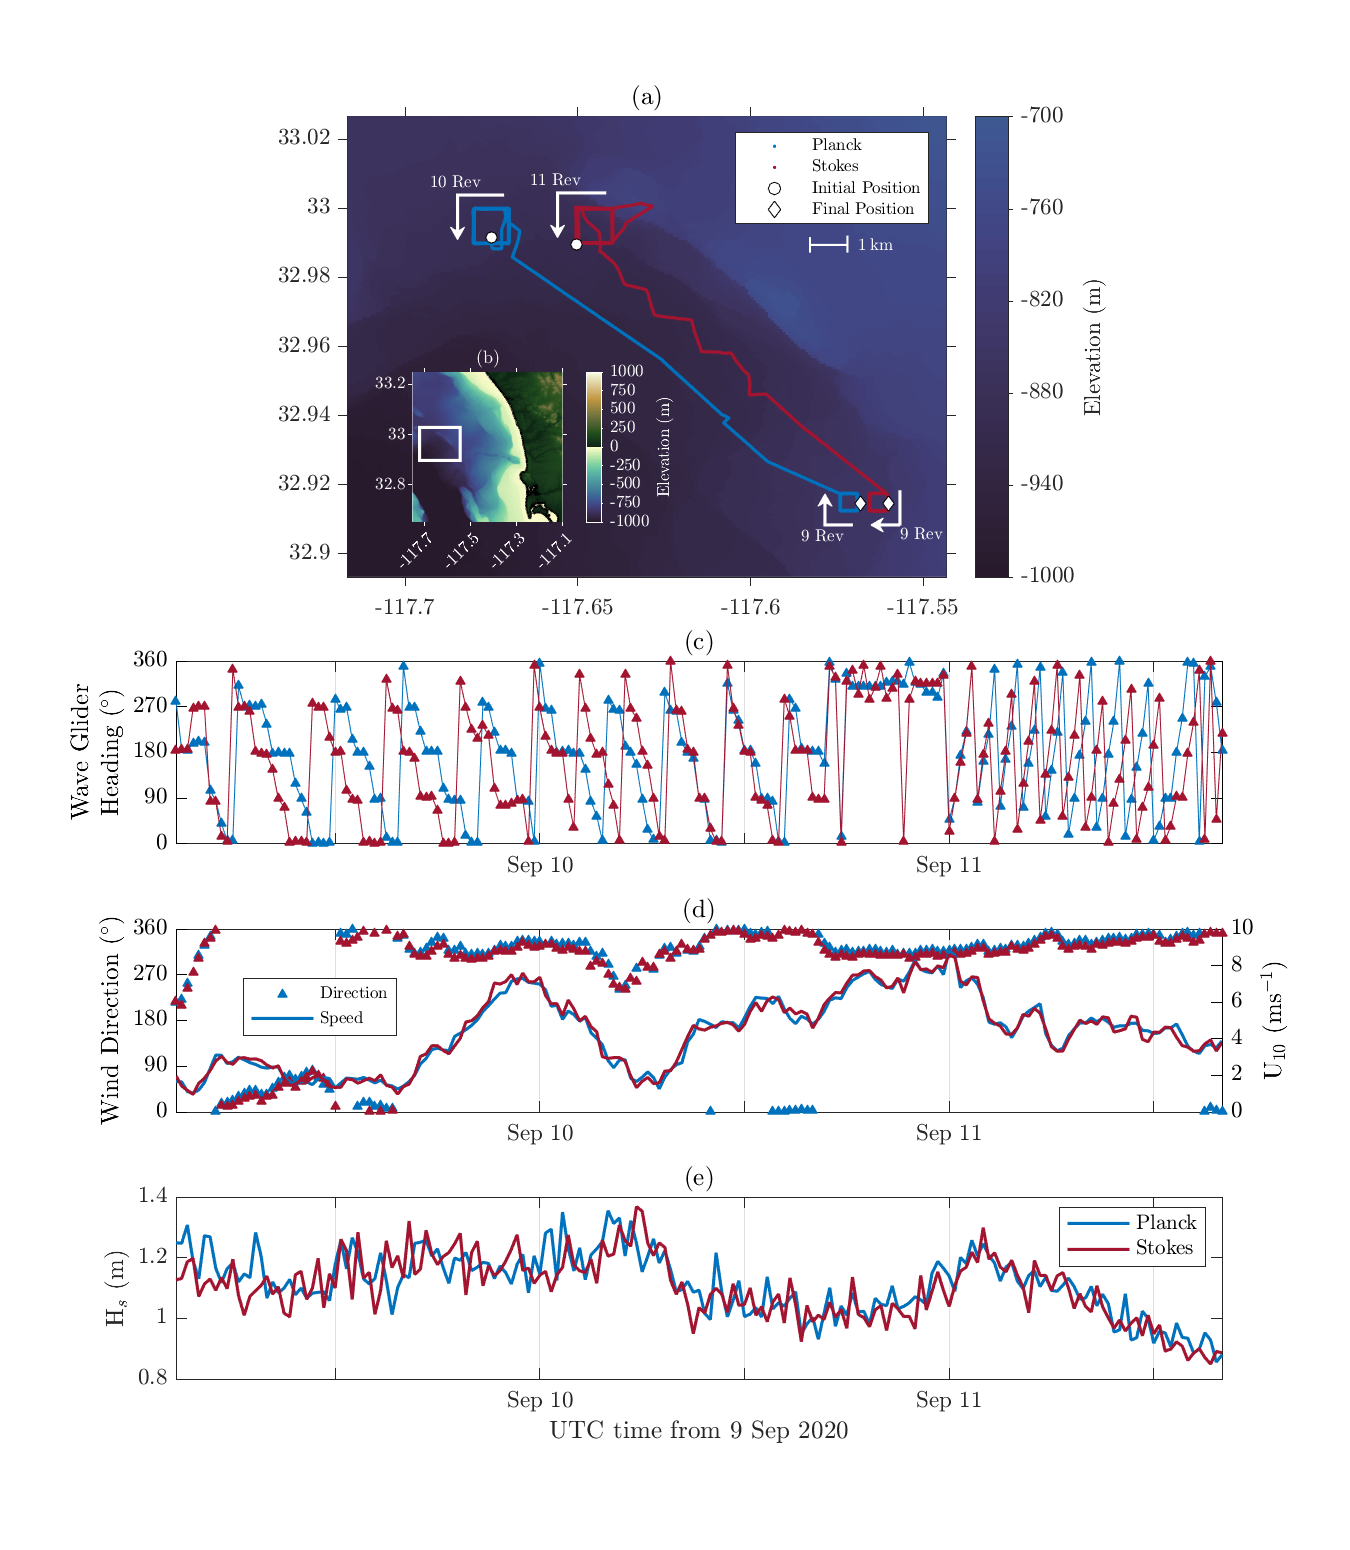
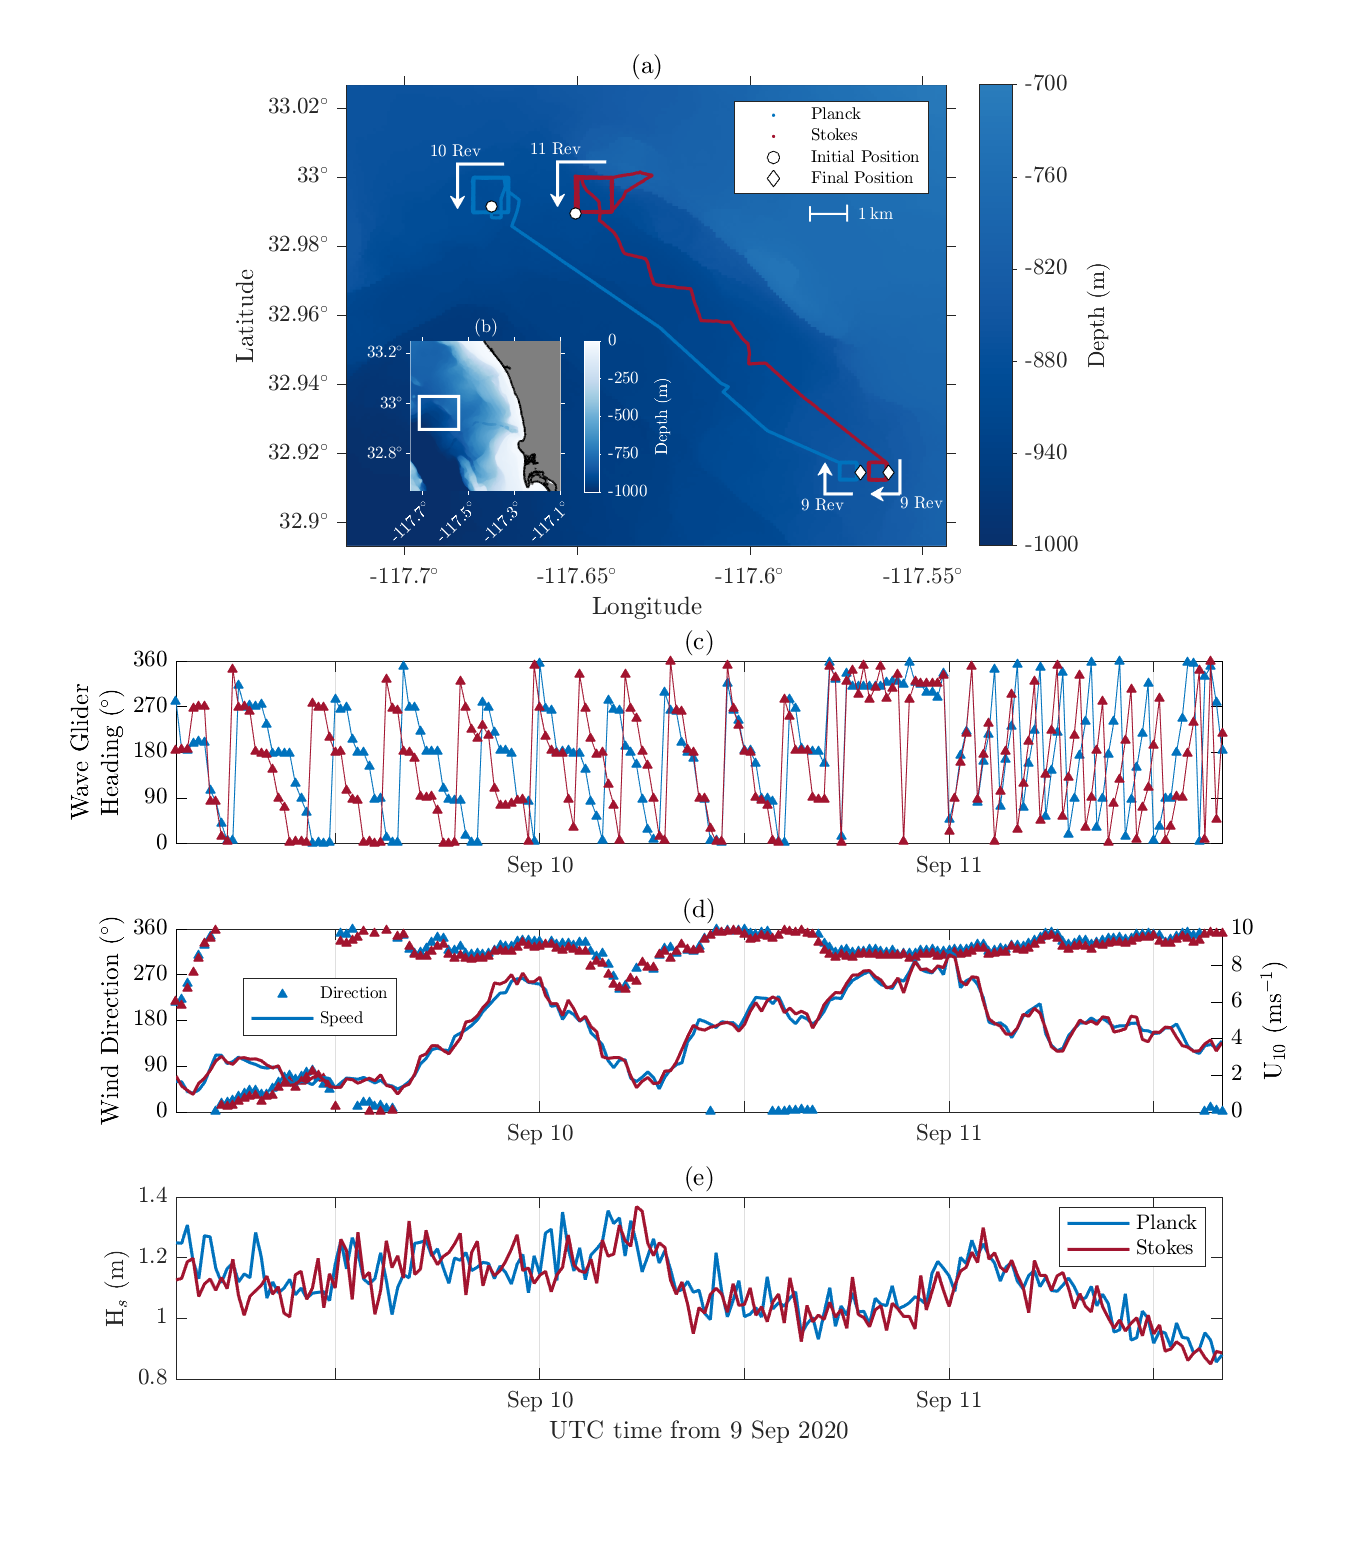
Add lat/lon labels, shift axes, and mask land.

Changed region(s): [[0.1867, 0.031, 0.84, 0.4026], [0.1556, 0.1858, 0.1867, 0.2168]]

diff --git a/src/fig01.m b/src/fig01.m
@@ -285,10 +285,10 @@ for is = 1:length(T0)
 end 
 
 %% Plot platform trajectory and environmental conditions
-close all 
+clc, close all 
 
 % Set plotting parameters
-cb_l = -1000; cb_h = 1000;
+cb_l = -1000; cb_h = -1; cb_land = 0;
 t_ticks = datetime('09-Sep-2020 00:00:00'):hours(12):datetime('12-Sep-2020 00:00:00');
 red = [0.6350 0.0780 0.1840]; 
 blue = [0 0.4470 0.7410]; 
@@ -322,8 +322,13 @@ hold off
 % Set figure attributes
 title('(a)')
 axis equal
+xlabel('Longitude')
+ylabel('Latitude')
 xlim([lon_exp_l, lon_exp_h])
 ylim([lat_exp_l, lat_exp_h])
+xl = xticks; yl = yticks;
+xticklabels({[num2str(xl(1)) '$^\circ$']; [num2str(xl(2)) '$^\circ$']; [num2str(xl(3)) '$^\circ$']; [num2str(xl(4)) '$^\circ$']})
+yticklabels({[num2str(yl(1)) '$^\circ$']; [num2str(yl(2)) '$^\circ$']; [num2str(yl(3)) '$^\circ$']; [num2str(yl(4)) '$^\circ$']; [num2str(yl(5)) '$^\circ$']; [num2str(yl(6)) '$^\circ$']; [num2str(yl(7)) '$^\circ$']})
 legend([pc2, pc3, pc4, pc5], 'Planck', 'Stokes', 'Initial Position', 'Final Position', 'Location', 'northeast', 'Fontsize', fontsize-3)
 grid on
 set(gca,'FontSize',fontsize)
@@ -333,11 +338,11 @@ set(gcf, 'Color', 'w')
 shading flat
 
 %------- set the colormap of the zoomed in region -------%
-% Set the topographic colormap
-cmap = colormap(cmocean('topo'));
+% Set the bathymetric colormap
+cmap = colormap([flipud(cmocean('deep')); [0.5, 0.5, 0.5]]);                % flipud(cmocean('deep'))
 
 % Create a depth vector corresponding to the levels of the colormap
-cmap_z = linspace(cb_l,cb_h, length(cmap)); 
+cmap_z = [linspace(cb_l,cb_h, length(cmap)-1), cb_land]; 
 
 % Find the max and min values of the bathymetry in the experiment site
 z_max = max(z_exp,[],'All'); z_min = min(z_exp,[],'All'); 
@@ -357,15 +362,22 @@ cb = colorbar;
 caxis([cb_l, -700]);
 cb.Label.Interpreter = 'Latex';
 cb.FontSize = fontsize;
-cb.Label.String = 'Elevation (m)';
+cb.Label.String = 'Depth (m)';
 cb.TickDirection = 'out';
 cb.Ticks = linspace(cb_l,-700,6);
 cb.TickLabels = num2cell(linspace(cb_l,-700,6)); 
 cb.TickLabelInterpreter = 'latex';
 
-% Find the position of the current axes and create a new position vector 
-% for the new axis using that position data.
+% Find the position of the current axes
 p_ax1 = get(gca, 'Position');                                               % Note: position vector: [left bottom width height]
+
+% Shift axis up and get new position
+y_shift = 0.02;
+set(gca, 'Position', [p_ax1(1) p_ax1(2)+y_shift p_ax1(3) p_ax1(4)])         % x-offset to align axes labels and titles
+p_ax1 = get(gca, 'Position');
+
+% Create a new position vector for the inset axis using that position data 
+% from the larger axis.
 p_ax2 = [p_ax1(1)+0.165 p_ax1(2)+0.035 p_ax1(3)-.5 p_ax1(4)-.2];           
 
 % Apply empirical corrections to x and y end points for annotate function in
@@ -403,8 +415,12 @@ contour(lon,lat,z',[0,0], 'LineWidth', 1, 'LineColor', 'k', 'LineStyle', '-')
 
 % Set figure attributes
 title('(b)', 'color', 'w')
+shading flat
 axis square
 xticks(-117.7:0.2:-117.1)
+xl = xticks; yl = yticks;
+xticklabels({[num2str(xl(1)) '$^\circ$']; [num2str(xl(2)) '$^\circ$']; [num2str(xl(3)) '$^\circ$']; [num2str(xl(4)) '$^\circ$']})
+yticklabels({[num2str(yl(1)) '$^\circ$']; [num2str(yl(2)) '$^\circ$']; [num2str(yl(3)) '$^\circ$']})
 set(gca, 'FontSize', 8)
 set(gca,'TickDir','out','TickLength', [0.025,0.75]);
 set(gca,'XColor','w')
@@ -412,58 +428,57 @@ set(gca,'YColor','w')
 set(gcf, 'InvertHardcopy', 'off')
 set(gca, 'color', 'w')
 set(gca,'TickLabelInterpreter','latex')
-shading flat
-cmap = colormap(h, cmocean('topo'));
+cmap = colormap(h, cmap);
 
 %Display Colorbar
 cb = colorbar; 
-caxis([cb_l, cb_h]);
+caxis([cb_l, cb_land]);
 cb.Label.Interpreter = 'Latex';
 cb.FontSize = 8;
-cb.Label.String = 'Elevation (m)';
+cb.Label.String = 'Depth (m)';
 cb.TickDirection = 'out';
 cb.Color = 'w';
-cb.Ticks = linspace(cb_l,cb_h,9);
-cb.TickLabels = num2cell(linspace(cb_l,cb_h,9)); 
+cb.Ticks = linspace(cb_l,cb_land,5);
+cb.TickLabels = num2cell(linspace(cb_l,cb_land,5)); 
 cb.TickLabelInterpreter = 'latex';
 
 % Create winding number arrows annotations
 %----- Planck Large Box -----%
 xa = [0.373456790123456 0.337962962962963];
-ya = [0.874163319946452 0.874163319946452];
+ya = [0.874163319946452 0.874163319946452]+y_shift;
 annotation('line',xa,ya,'Color','w', 'LineWidth', 1.5)
 xa = [0.33891975308642 0.33891975308642];
-ya = [0.875163319946452 0.845373493975903];
+ya = [0.875163319946452 0.845373493975903]+y_shift;
 annotation('textarrow',xa,ya,'String','10 Rev ','Color','w', 'LineWidth', ...
            1.5, 'Interpreter', 'latex', 'FontSize', 8,'HeadWidth',9,...
            'HeadLength',6)
 
 %----- Planck Small Box -----%
 xa = [0.632716049382716 0.612654320987653];
-ya = [0.661311914323962 0.661311914323961];
+ya = [0.661311914323962 0.661311914323961]+y_shift;
 annotation('line',xa-0.001,ya,'Color','w', 'LineWidth', 1.5)
 xa = [0.611111111111109 0.611111111111109];
-ya = [0.660311914323962 0.681392235609102];
+ya = [0.660311914323962 0.681392235609102]+y_shift;
 annotation('textarrow',xa,ya,'String','9 Rev ','Color','w', 'LineWidth', ...
            1.5, 'Interpreter', 'latex', 'FontSize', 8,'HeadWidth',9,...
            'HeadLength',6)
 
 %----- Stokes Large Box -----%
 xa = [0.449074074074072 0.413580246913579];
-ya = [0.875502008032128 0.875502008032128];
+ya = [0.875502008032128 0.875502008032128]+y_shift;
 annotation('line',xa,ya,'Color','w', 'LineWidth', 1.5)
 xa = [0.412993827160493 0.412993827160493];
-ya = [0.876502008032128 0.846712182061579];
+ya = [0.876502008032128 0.846712182061579]+y_shift;
 annotation('textarrow',xa,ya,'String','11 Rev ','Color','w', 'LineWidth', ...
             1.5, 'Interpreter', 'latex', 'FontSize', 8,'HeadWidth',9,...
             'HeadLength',6)
 
 %----- Stokes Small Box -----%
 xa = [0.666666666666666 0.666666666666667];
-ya = [0.659973226238286 0.682730923694779];
+ya = [0.659973226238286 0.682730923694779]+y_shift;
 annotation('line',xa,ya+0.001,'Color','w', 'LineWidth', 1.5)
 xa = [0.666666666666666 0.645061728395059];
-ya = [0.661311914323962 0.661311914323961];
+ya = [0.661311914323962 0.661311914323961]+y_shift;
 annotation('textarrow',xa,ya,'String','9 Rev ', 'TextRotation', 0, 'Color', ...
            'w', 'LineWidth', 1.5, 'Interpreter', 'latex', 'FontSize', 8,...
            'HorizontalAlignment','left', 'VerticalAlignment','top',...
@@ -504,19 +519,19 @@ py_f = y_ax1(1)+0.281;
 
 %----- Left Vertical Bar -----%
 annotation('line',[0.6 0.6],...
-    [0.828+0.009 0.838+0.009],'Color',[1 1 1],'LineWidth',1);
+    [0.828+0.009 0.838+0.009]+y_shift,'Color',[1 1 1],'LineWidth',1);
 
 %----- Right Vertical Bar -----%
 annotation('line',[0.6+(px_f-px_i) 0.6+(px_f-px_i)],...
-    [0.828+0.009 0.839+0.009],'Color',[1 1 1],'LineWidth',1);
+    [0.828+0.009 0.839+0.009]+y_shift,'Color',[1 1 1],'LineWidth',1);
 
 %----- Horizontal Bar -----%
 annotation('line',[0.6  0.6+(px_f-px_i)],...
-    [0.833+0.009 0.833+0.009],'Color',[1 1 1],'LineWidth',1);
+    [0.833+0.009 0.833+0.009]+y_shift,'Color',[1 1 1],'LineWidth',1);
 
 %----- Text Box -----%
 annotation('textbox',...
-    [0.627543209876543 0.829301075268817+0.009 0.0591851851851851 0.013440860215054],...
+    [0.627543209876543 0.829301075268817+0.009+y_shift 0.0591851851851851 0.013440860215054],...
     'Color',[1 1 1],'String',{'1$\:$km'},'Interpreter','latex',...
     'FontSize',8,'FitBoxToText','off','EdgeColor','none');
 

diff --git a/src/fig02.m b/src/fig02.m
@@ -360,9 +360,10 @@ for is = 1:(length(T0) - 1)
 end
 
 %% Plot platform trajectory and environmental conditions
+clc, close all
 
 % Set plotting parameters
-cb_l = -4000; cb_h = 4000;
+cb_l = -4000; cb_h = -1; cb_land = 0;
 t_ticks = datetime('29-Oct-2021 00:00:00'):days(1):datetime('04-Nov-2021 00:00:00');
 red = [0.6350 0.0780 0.1840]; 
 blue = [0 0.4470 0.7410]; 
@@ -391,10 +392,15 @@ hold off
 % Set figure attributes
 title('(a)')
 axis equal
+xlabel('Longitude')
+ylabel('Latitude')
 xlim([lon_exp_l, lon_exp_h])
 ylim([lat_exp_l, lat_exp_h])
 xticks(-124.2:0.2:-123.4)
 yticks(36.8:0.2:37.4)
+xl = xticks; yl = yticks;
+xticklabels({[num2str(xl(1)) '$^\circ$']; [num2str(xl(2)) '$^\circ$']; [num2str(xl(3)) '$^\circ$']; [num2str(xl(4)) '$^\circ$']; [num2str(xl(5)) '$^\circ$']})
+yticklabels({[num2str(yl(1)) '$^\circ$']; [num2str(yl(2)) '$^\circ$']; [num2str(yl(3)) '$^\circ$']; [num2str(yl(4)) '$^\circ$']})
 legend([pc2, pc3, pc4], 'WHOI43', 'Initial Position', 'Final Position', 'Location', 'northeast', 'Fontsize', fontsize-3)
 grid on
 set(gca,'FontSize',fontsize)
@@ -404,11 +410,11 @@ set(gcf, 'Color', 'w')
 shading flat
 
 %------- set the colormap of the zoomed in region -------%
-% Set the topographic colormap
-cmap = colormap(cmocean('topo'));
+% Set the bathymetric colormap
+cmap = colormap([flipud(cmocean('deep')); [0.5, 0.5, 0.5]]);                % flipud(cmocean('deep'))
 
 % Create a depth vector corresponding to the levels of the colormap
-cmap_z = linspace(cb_l,cb_h, length(cmap)); 
+cmap_z = [linspace(cb_l,cb_h, length(cmap)-1), cb_land]; 
 
 % Find the max and min values of the bathymetry in the experiment site
 z_max = max(z_exp,[],'All'); z_min = min(z_exp,[],'All'); 
@@ -428,13 +434,20 @@ cb = colorbar;
 caxis([cb_l, -1000]);
 cb.Label.Interpreter = 'Latex';
 cb.FontSize = fontsize;
-cb.Label.String = 'Elevation (m)';
+cb.Label.String = 'Depth (m)';
 cb.TickDirection = 'out'; 
 cb.TickLabelInterpreter = 'latex';
 
-% Find the position of the current axes and create a new position vector 
-% for the new axis using that position data.
+% Find the position of the current axes
 p_ax1 = get(gca, 'Position');                                               % Note: position vector: [left bottom width height]
+
+% Shift axis up and get new position
+y_shift = 0.02;
+set(gca, 'Position', [p_ax1(1) p_ax1(2)+y_shift p_ax1(3) p_ax1(4)])         % x-offset to align axes labels and titles
+p_ax1 = get(gca, 'Position');
+
+% Create a new position vector for the inset axis using that position data 
+% from the larger axis.                                             % Note: position vector: [left bottom width height]
 p_ax2 = [p_ax1(1)+0.15 p_ax1(2)+0.03 p_ax1(3)-.5 p_ax1(4)-.2];
 
 % Apply empirical corrections to x and y end points for annotate function in
@@ -473,6 +486,9 @@ contour(lon_reg,lat_reg,z_reg',[0,0], 'LineWidth', 1, 'LineColor', 'k', 'LineSty
 % Set figure attributes
 title('(b)', 'color', 'w')
 axis square
+xl = xticks; yl = yticks;
+xticklabels({[num2str(xl(1)) '$^\circ$']; [num2str(xl(2)) '$^\circ$']})
+yticklabels({[num2str(yl(1)) '$^\circ$']; [num2str(yl(2)) '$^\circ$']; [num2str(yl(3)) '$^\circ$']; [num2str(yl(4)) '$^\circ$']})
 set(gca, 'FontSize', 8)
 set(gca,'TickDir','out','TickLength', [0.025,0.75]);
 set(gca,'XColor','w')
@@ -481,18 +497,18 @@ set(gcf, 'InvertHardcopy', 'off')
 set(gca, 'color', 'w')
 set(gca,'TickLabelInterpreter','latex')
 shading flat
-cmap = colormap(h, cmocean('topo'));
+cmap = colormap(h, cmap);
 
 %Display Colorbar
 cb = colorbar; 
-caxis([cb_l, cb_h]);
+caxis([cb_l, cb_land]);
 cb.Label.Interpreter = 'Latex';
 cb.FontSize = 8;
-cb.Label.String = 'Elevation (m)';
+cb.Label.String = 'Depth (m)';
 cb.TickDirection = 'out';
 cb.Color = 'w';
-cb.Ticks = linspace(cb_l,cb_h,9);
-cb.TickLabels = num2cell(linspace(cb_l,cb_h,9)); 
+cb.Ticks = linspace(cb_l,cb_land,5);
+cb.TickLabels = num2cell(linspace(cb_l,cb_land,5)); 
 cb.TickLabelInterpreter = 'latex';
 
 % Set the distance for 
@@ -530,19 +546,19 @@ py_f = y_ax1(1)+0.281;
 
 %----- Left Vertical Bar -----%
 annotation('line',[0.6 0.6],...
-    [0.828+0.02 0.838+0.02],'Color',[1 1 1],'LineWidth',1);
+    [0.828+0.02 0.838+0.02]+y_shift,'Color',[1 1 1],'LineWidth',1);
 
 %----- Right Vertical Bar -----%
 annotation('line',[0.6+(px_f-px_i) 0.6+(px_f-px_i)],...
-    [0.828+0.02 0.839+0.02],'Color',[1 1 1],'LineWidth',1);
+    [0.828+0.02 0.839+0.02]+y_shift,'Color',[1 1 1],'LineWidth',1);
 
 %----- Horizontal Bar -----%
 annotation('line',[0.6  0.6+(px_f-px_i)],...
-    [0.833+0.02 0.833+0.02],'Color',[1 1 1],'LineWidth',1);
+    [0.833+0.02 0.833+0.02]+y_shift,'Color',[1 1 1],'LineWidth',1);
 
 %----- Text Box -----%
 annotation('textbox',...
-    [0.627543209876543 0.829301075268817+0.02 0.0591851851851851 0.013440860215054],...
+    [0.627543209876543 0.829301075268817+0.02+y_shift 0.0591851851851851 0.013440860215054],...
     'Color',[1 1 1],'String',{'5$\:$km'},'Interpreter','latex',...
     'FontSize',8,'FitBoxToText','off','EdgeColor','none');
 
